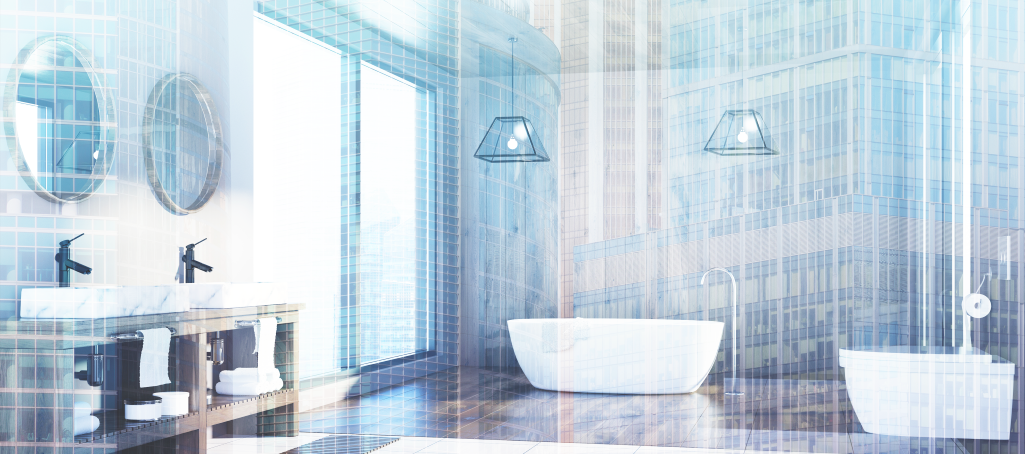
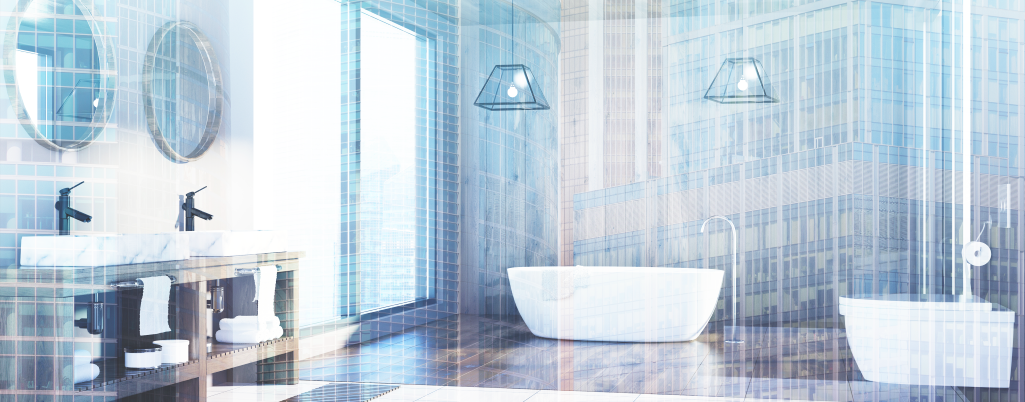
add animation for background change

diff --git a/css/site.css b/css/site.css
@@ -6,6 +6,8 @@ body {
     background-position: center, center;
     background-position-y: top, 120px;
     background-repeat: no-repeat, no-repeat;
+
+    transition: linear all 0.5s;
 }
 
 html {
